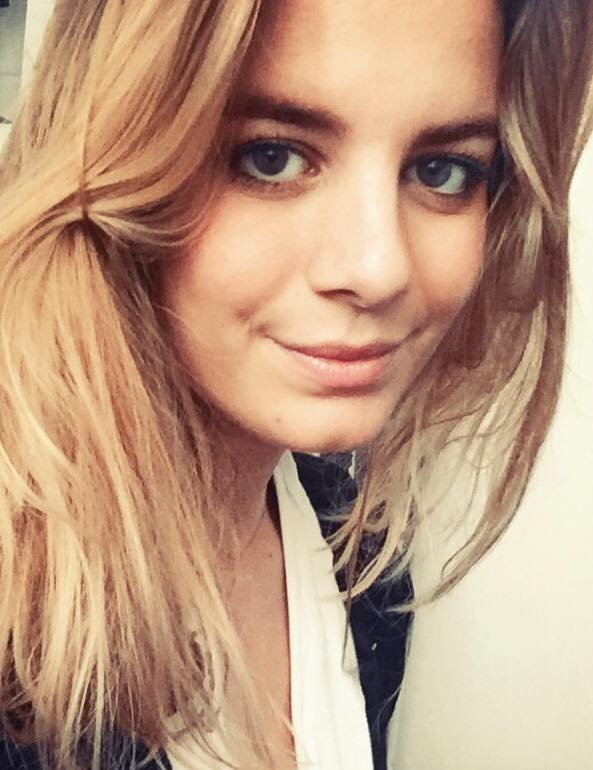
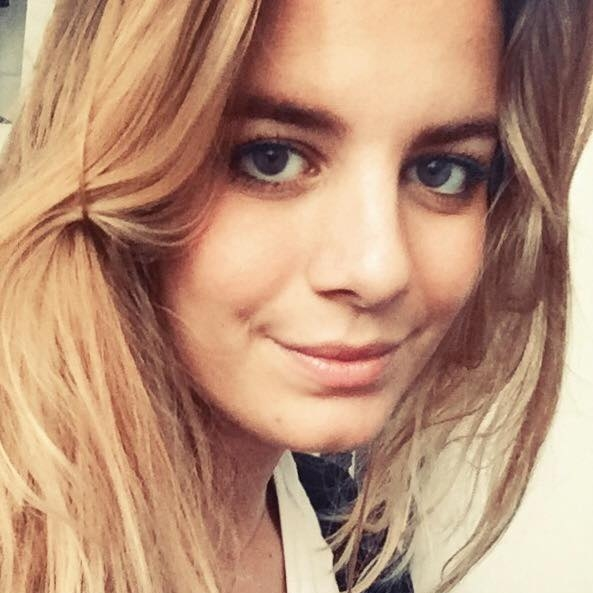
Ajout faux profils

diff --git a/src/Store.js b/src/Store.js
@@ -11,7 +11,8 @@ export default new Vuex.Store({
     patients: [
       {
         id: 1,
-        name: 'Air Julie',
+        name: 'Basser Philippine',
+        avatar: 'philippine.jpg',
         nbNextSessions: 2,
         archive: false,
         phone: '0666666666',
@@ -21,7 +22,8 @@ export default new Vuex.Store({
       },
       {
         id: 2,
-        name: 'Basser Philippine',
+        name: 'Charrier Léa',
+        avatar: 'lea.jpg',
         nbNextSessions: 4,
         archive: false,
         phone: '0677777777',
@@ -31,8 +33,31 @@ export default new Vuex.Store({
       },
       {
         id: 3,
-        name: 'Charrier Léa',
-        nbNextSessions: 2,
+        name: 'Hall Ulysse',
+        avatar: 'ulysse.jpg',
+        nbNextSessions: 1,
+        archive: false,
+        phone: '0888888888',
+        email: 'charrier.lea@gmail.com',
+        antecedent: 'Femme morte il y a 10ans , dans un accident de voiture',
+        fear: 'Voitures autonomes, maisons autonomes.'
+      },
+      {
+        id: 4,
+        name: 'Picot Clément',
+        avatar: 'clement.jpg',
+        nbNextSessions: 99,
+        archive: false,
+        phone: '0888888888',
+        email: 'charrier.lea@gmail.com',
+        antecedent: 'Femme morte il y a 10ans , dans un accident de voiture',
+        fear: 'Voitures autonomes, maisons autonomes.'
+      },
+      {
+        id: 4,
+        name: 'Aira Julie',
+        avatar: 'personne.png',
+        nbNextSessions: 12,
         archive: true,
         phone: '0888888888',
         email: 'charrier.lea@gmail.com',

diff --git a/src/pages/Home.vue b/src/pages/Home.vue
@@ -16,7 +16,7 @@
       <router-link v-for="patient in patients" :to="'/patient/'+patient.id" :key="patient.id">
         <div class="people">
           <div class="contain-img">
-            <img src="../assets/img/personne.png">
+            <img :src="avatar(patient.avatar)">
           </div>
           <div class="description">
             <p class="name">{{ patient.name }}</p>
@@ -34,13 +34,17 @@
 
     data() {
       return {
-        switchBtn: 'left',
+        switchBtn: 'left'
       }
     },
 
     methods: {
       toggleActive(side) {
         this.switchBtn = side
+      },
+
+      avatar(imageName) {
+        return require('../assets/img/' + imageName)
       }
     },
 

diff --git a/src/main.js b/src/main.js
@@ -2,13 +2,6 @@ import Vue from 'vue'
 import App from './App'
 import router from './Router'
 import store from './Store'
-// import UIkit from 'uikit';
-// import Icons from 'uikit/dist/js/uikit-icons';
-//
-// UIkit.use(Icons);
-// UIkit.notification('Hello world.');
-
-// Vue.config.productionTip = false
 
 new Vue({
   el: '#app',

diff --git a/src/assets/scss/home.scss b/src/assets/scss/home.scss
@@ -56,6 +56,7 @@
 
         img {
           width: 51px;
+          border-radius: 50%;
         }
       }
 
@@ -108,7 +109,7 @@
         font-weight: 700;
       }
     }
-    
+
     .container-seance {
 
       .seance {
